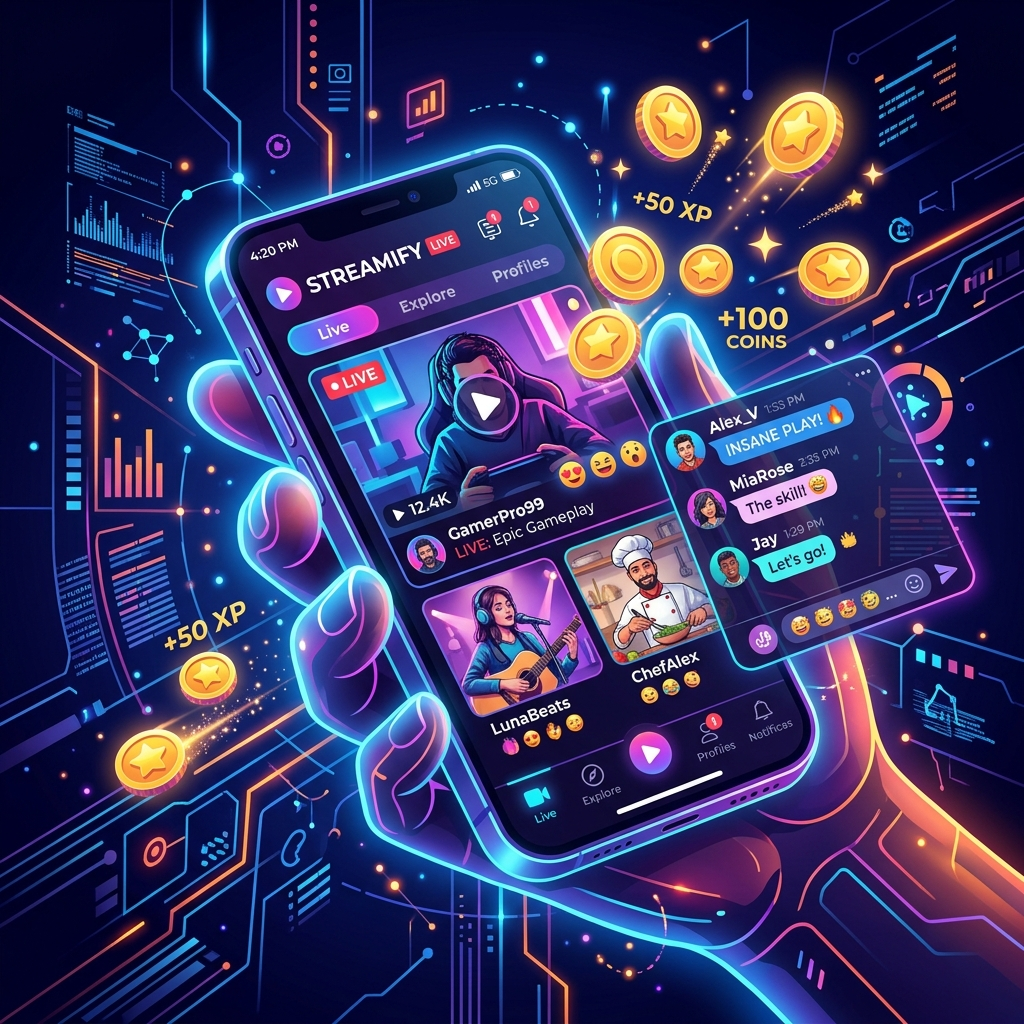
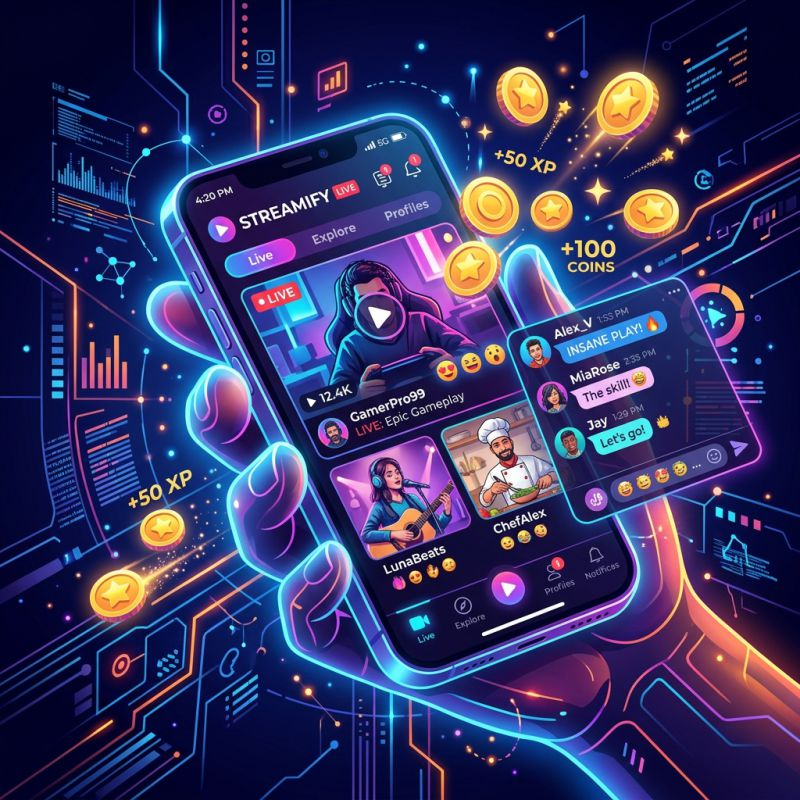
ok

diff --git a/welcome.php b/welcome.php
@@ -11,13 +11,44 @@ if (is_logged_in()) {
     redirect(BASE_URL . '/');
 }
 
+// ── Performance: HTTP Cache Headers ──
+header('Cache-Control: public, max-age=300, s-maxage=600'); // 5 min browser, 10 min CDN
+header('Vary: Accept-Encoding');
+header('X-Content-Type-Options: nosniff');
+
+// ── Performance: Enable output buffering with gzip ──
+if (!ob_get_level()) {
+    if (extension_loaded('zlib') && !ini_get('zlib.output_compression')) {
+        ob_start('ob_gzhandler');
+    } else {
+        ob_start();
+    }
+}
+
 $site_name = setting('site_name', 'FreeHub');
 $site_theme = setting('active_theme', 'dark-minimal');
 $primary    = setting('primary_color', '#6366f1');
 
-// Fetch some active stats for credibility
-$total_users = (int)db_fetch("SELECT COUNT(id) as c FROM users")['c'];
-$total_videos = (int)db_fetch("SELECT COUNT(id) as c FROM videos WHERE status='published'")['c'];
+// ── Performance: Cache stats counts (file-based, 5 min TTL) ──
+$cache_file = __DIR__ . '/cache/welcome_stats.cache';
+$cache_ttl = 300; // 5 minutes
+$stats_cached = false;
+
+if (file_exists($cache_file) && (time() - filemtime($cache_file)) < $cache_ttl) {
+    $cached = @unserialize(file_get_contents($cache_file));
+    if ($cached && isset($cached['users'], $cached['videos'])) {
+        $total_users = $cached['users'];
+        $total_videos = $cached['videos'];
+        $stats_cached = true;
+    }
+}
+
+if (!$stats_cached) {
+    $total_users = (int)db_fetch("SELECT COUNT(id) as c FROM users")['c'];
+    $total_videos = (int)db_fetch("SELECT COUNT(id) as c FROM videos WHERE status='published'")['c'];
+    @file_put_contents($cache_file, serialize(['users' => $total_users, 'videos' => $total_videos]));
+}
+
 // Format stats beautifully
 $users_formatted = $total_users > 1000 ? number_format($total_users / 1000, 1) . 'K+' : number_format($total_users) . '+';
 $videos_formatted = $total_videos > 1000 ? number_format($total_videos / 1000, 1) . 'K+' : number_format($total_videos) . '+';
@@ -29,8 +60,23 @@ $videos_formatted = $total_videos > 1000 ? number_format($total_videos / 1000, 1
   <meta name="viewport" content="width=device-width, initial-scale=1.0">
   <title>Welcome to <?= e($site_name) ?> — Members-Only Video Platform</title>
   <meta name="description" content="Watch premium videos, discover amazing creators, and earn rewards on <?= e($site_name) ?>. Join free today!">
-  <link rel="stylesheet" href="<?= BASE_URL ?>/assets/css/main.css">
-  <link href="https://fonts.googleapis.com/css2?family=Inter:wght@300;400;500;600;700;800&family=Outfit:wght@400;500;600;700;800;900&display=swap" rel="stylesheet">
+
+  <!-- Resource Hints -->
+  <link rel="preconnect" href="https://fonts.googleapis.com">
+  <link rel="preconnect" href="https://fonts.gstatic.com" crossorigin>
+  <link rel="dns-prefetch" href="https://fonts.googleapis.com">
+
+  <!-- Preload LCP image -->
+  <link rel="preload" as="image" href="<?= BASE_URL ?>/assets/img/welcome_hero.webp" fetchpriority="high" type="image/webp">
+
+  <!-- Non-render-blocking CSS -->
+  <link rel="stylesheet" href="<?= BASE_URL ?>/assets/css/main.css" media="print" onload="this.media='all'">
+  <noscript><link rel="stylesheet" href="<?= BASE_URL ?>/assets/css/main.css"></noscript>
+
+  <!-- Async Google Fonts -->
+  <link rel="preload" as="style" href="https://fonts.googleapis.com/css2?family=Inter:wght@400;500;600;700;800&family=Outfit:wght@400;600;700;800;900&display=swap" onload="this.rel='stylesheet'">
+  <noscript><link rel="stylesheet" href="https://fonts.googleapis.com/css2?family=Inter:wght@400;500;600;700;800&family=Outfit:wght@400;600;700;800;900&display=swap"></noscript>
+
   <style>
     /* Styling overrides/extensions for a jaw-dropping landing experience */
     :root {
@@ -46,8 +92,10 @@ $videos_formatted = $total_videos > 1000 ? number_format($total_videos / 1000, 1
         radial-gradient(circle at 90% 80%, rgba(236, 72, 153, 0.05) 0%, transparent 40%),
         radial-gradient(circle at 50% 50%, rgba(6, 8, 19, 1) 0%, rgba(2, 3, 8, 1) 100%);
       color: #f3f4f6;
-      font-family: 'Inter', sans-serif;
+      font-family: 'Inter', -apple-system, BlinkMacSystemFont, 'Segoe UI', sans-serif;
       overflow-x: hidden;
+      -webkit-font-smoothing: antialiased;
+      text-rendering: optimizeSpeed;
     }
     
     /* Sleek Navbar */
@@ -239,16 +287,12 @@ $videos_formatted = $total_videos > 1000 ? number_format($total_videos / 1000, 1
       width: 100%;
       max-width: 480px;
       height: auto;
+      aspect-ratio: 1/1;
       object-fit: contain;
       z-index: 2;
       filter: drop-shadow(0 20px 40px rgba(0, 0, 0, 0.5));
-      animation: floatHero 6s ease-in-out infinite;
       border-radius: 24px;
-    }
-    
-    @keyframes floatHero {
-      0%, 100% { transform: translateY(0); }
-      50% { transform: translateY(-12px); }
+      contain: layout style;
     }
     
     /* Warnings Banner (VPN & AdBlock) */
@@ -834,7 +878,10 @@ $videos_formatted = $total_videos > 1000 ? number_format($total_videos / 1000, 1
       </div>
       
       <div class="welcome-hero-visual">
-        <img class="welcome-hero-img" src="<?= BASE_URL ?>/assets/img/welcome_hero.png" alt="FreeHub Platform Illustration">
+        <picture>
+          <source srcset="<?= BASE_URL ?>/assets/img/welcome_hero.webp" type="image/webp">
+          <img class="welcome-hero-img" src="<?= BASE_URL ?>/assets/img/welcome_hero.png" alt="FreeHub Platform Illustration" width="480" height="480" fetchpriority="high" decoding="async">
+        </picture>
       </div>
     </div>
   </section>
@@ -1043,5 +1090,29 @@ $videos_formatted = $total_videos > 1000 ? number_format($total_videos / 1000, 1
     </div>
   </footer>
 
+<!-- Deferred non-critical: reveal below-fold sections with fade-in -->
+<script>
+(function(){
+  // Intersection Observer for lazy fade-in of below-fold sections
+  if ('IntersectionObserver' in window) {
+    var sections = document.querySelectorAll('.welcome-section, .trust-section, .welcome-footer');
+    var io = new IntersectionObserver(function(entries) {
+      entries.forEach(function(e) {
+        if (e.isIntersecting) {
+          e.target.style.opacity = '1';
+          e.target.style.transform = 'translateY(0)';
+          io.unobserve(e.target);
+        }
+      });
+    }, { rootMargin: '100px' });
+    sections.forEach(function(s) {
+      s.style.opacity = '0';
+      s.style.transform = 'translateY(20px)';
+      s.style.transition = 'opacity 0.5s ease, transform 0.5s ease';
+      io.observe(s);
+    });
+  }
+})();
+</script>
 </body>
 </html>
